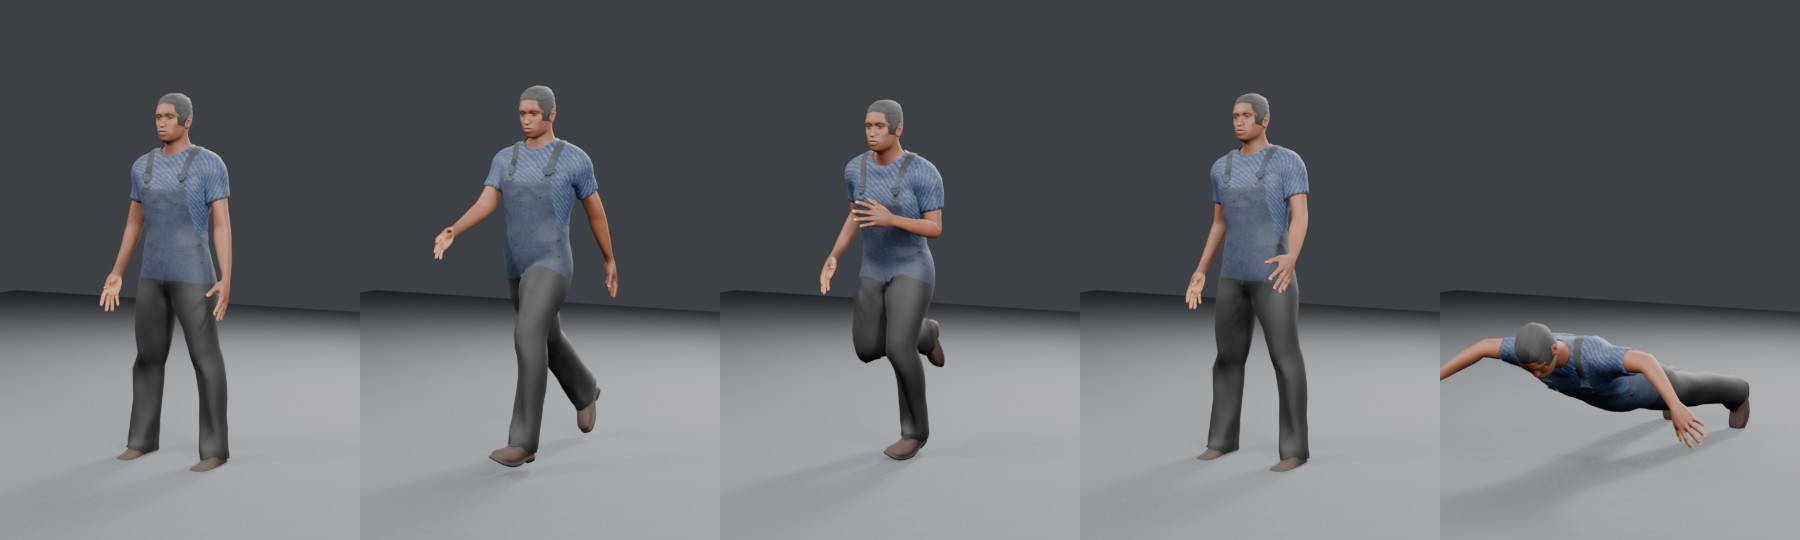
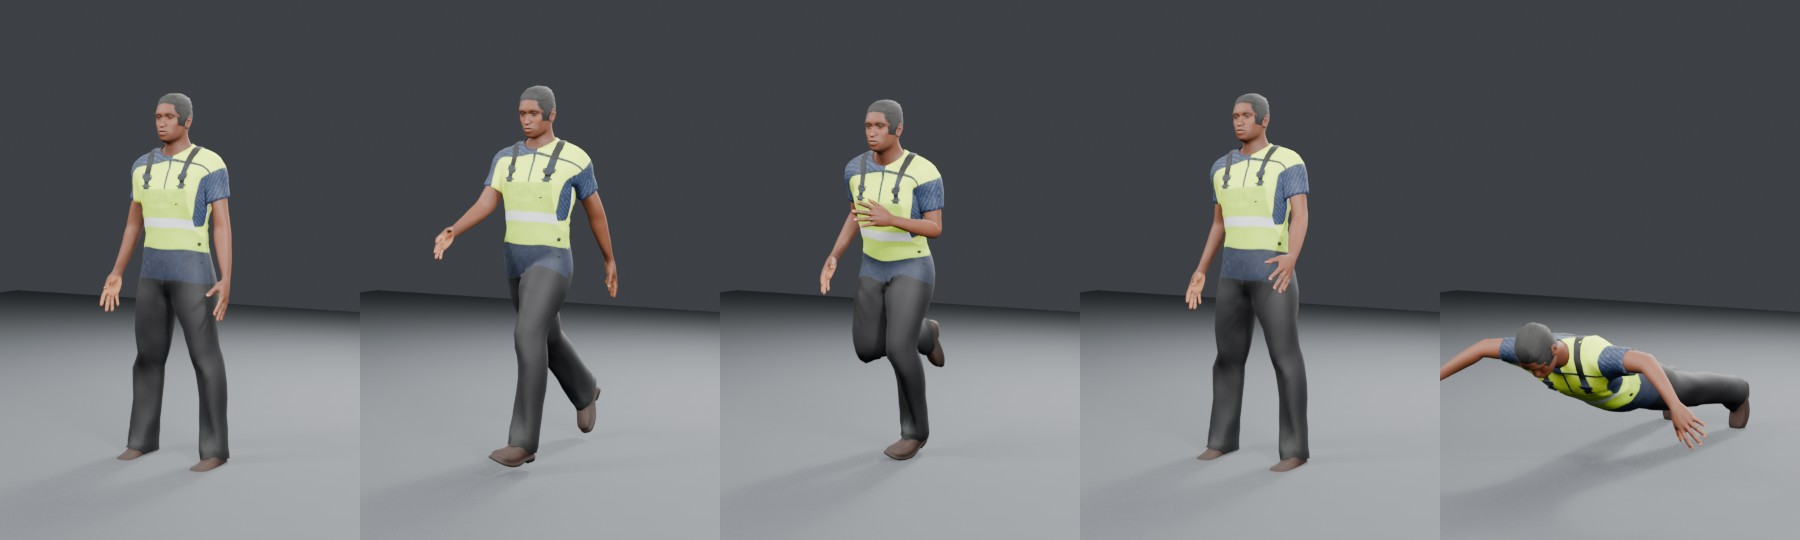
fix(npc): body-conforming hi-vis vest for the car guard
Owner: the boxy glowing vest read as a lime cube strapped to his chest. The
RoundedBox emissive prop is gone; the vest is painted into the worksuit via
the outfitOverlay pipeline instead — conforming lime panels with silver
reflective bands front and back, sleeves and dungaree straps showing. Being
ordinary lit material it darkens in blackouts and catches the torch beam
(the old emissive box glowed through load shedding from any distance).

diff --git a/src/entities/Pedestrian.ts b/src/entities/Pedestrian.ts
@@ -192,9 +192,10 @@ export class Pedestrian {
   }
 
   makeCarGuard(): void {
+    // The hi-vis vest is painted into the car-guard's outfit texture now (outfitOverlay —
+    // body-conforming and light-responsive, so it goes dark in a blackout like everything else);
+    // the old emissive RoundedBox glowed through the night from any distance.
     this.carGuard = true; this.contact = true; this.group.name = 'Car Guard';
-    const vest = new THREE.Mesh(new RoundedBoxGeometry(0.52, 0.5, 0.34, 3, 0.06), new THREE.MeshStandardMaterial({ color: 0xb6f22e, emissive: 0x86c010, emissiveIntensity: 0.55, roughness: 0.6 }));
-    vest.position.y = 1.08; vest.castShadow = true; this.group.add(vest);
   }
 
   /** Flags the player's taxi down: freeze at the curb with an arm out until picked up or released. */